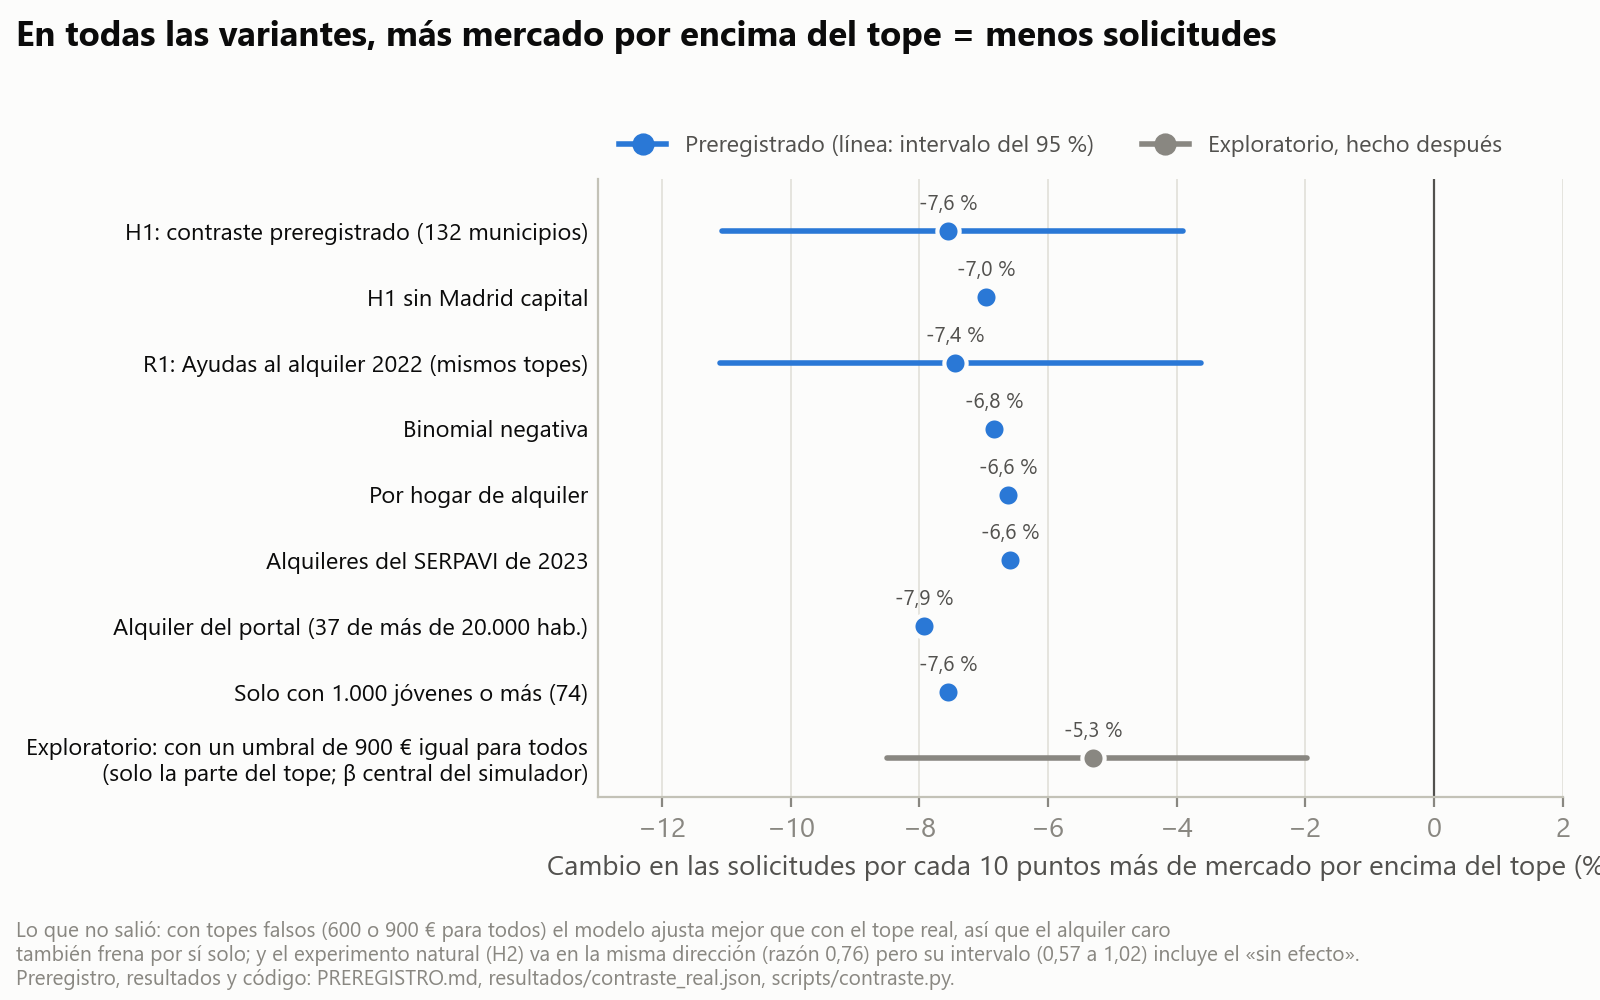
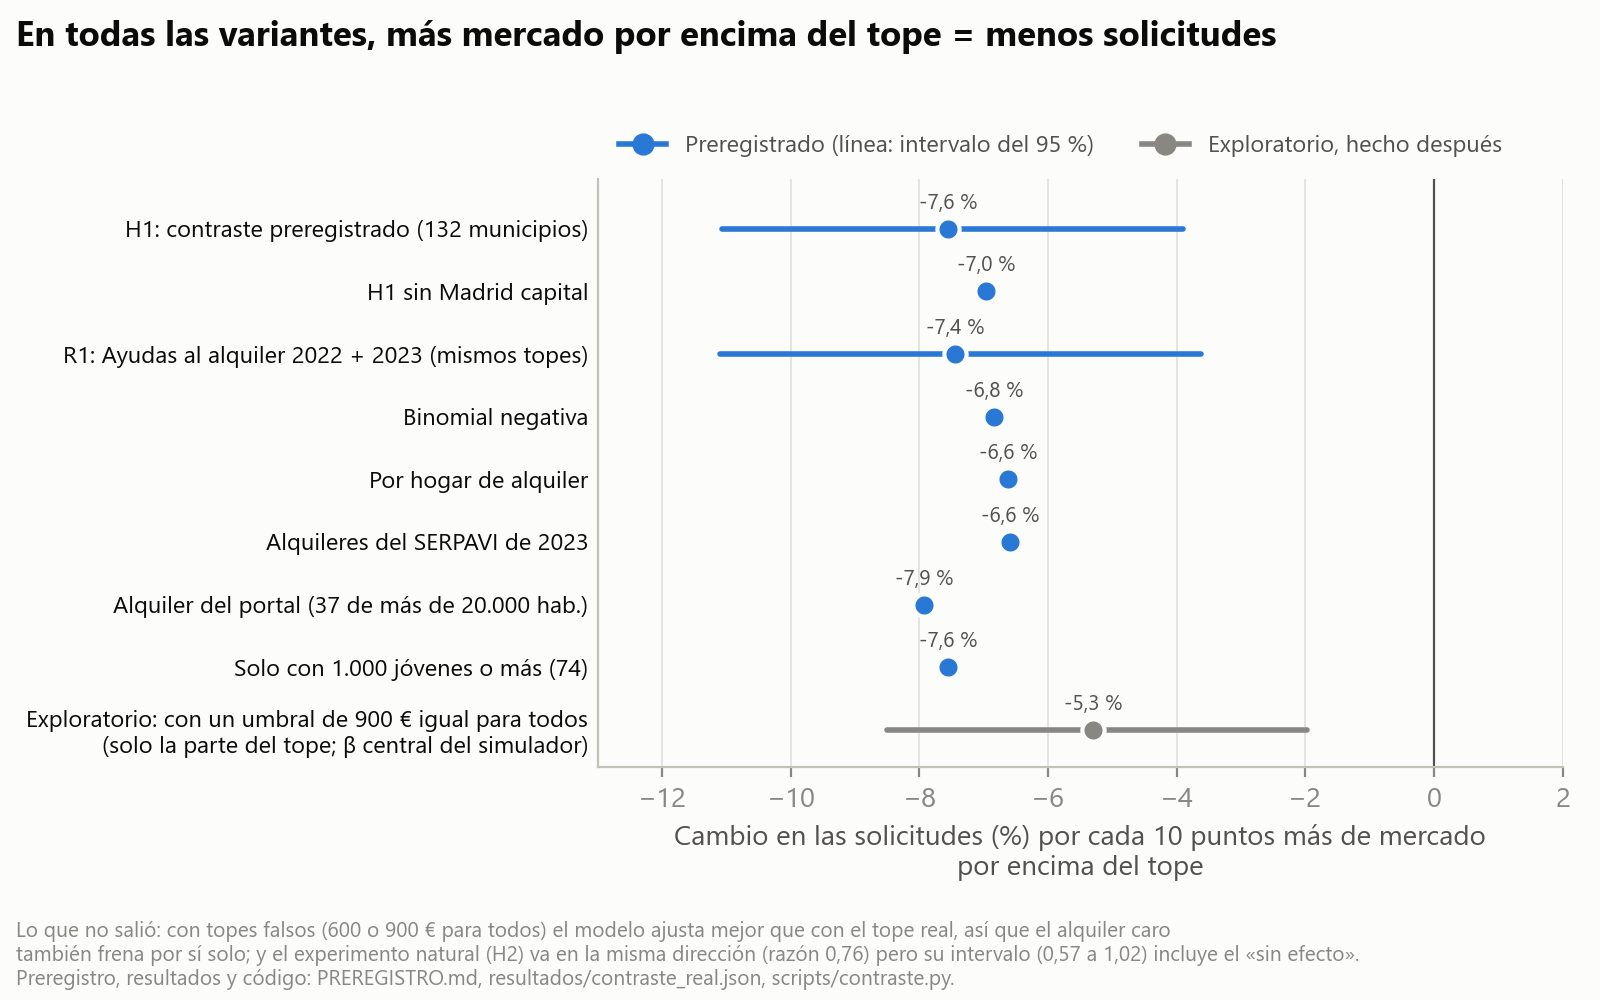
Validacion fuera de muestra del modelo de solicitudes y etiqueta R1 (2022 + 2023) de la figura
- scripts/validacion_fuera_muestra.py (exploratorio, lo esperado escrito antes): dejando fuera un municipio cada vez,
  la parte por encima del tope baja el error tipico del 21 % al 18 %; con 10 grupos x 20, gana en todas las repeticiones
- El modelo del simulador (tope y 900 EUR juntos), entrenado con el Bono 2022, predice las Ayudas para jovenes de 2023
  con un 27 % menos de desviacion que sin esas partes (Spearman de 0,32 a 0,46)
- El umbral de 900 EUR igual para todos tambien predice bien: se dice, como ya se decia
- Figura de todas las pruebas: R1 son las Ayudas de 2022 + 2023 y el eje ya no se corta

diff --git a/scripts/validacion_fuera_muestra.py b/scripts/validacion_fuera_muestra.py
@@ -1,0 +1,153 @@
+"""EXPLORATORY (not pre-registered; written 8-Nov-2026, after the real test): does the requests model predict
+municipalities it has not seen better when it knows the share of the rent above the cap?
+
+The pre-registered model (contraste.py): Poisson, Bono 2022 requests, offset log(young 20-34), controls log rent, log
+income, % renting households, youth unemployment and log population. The test measured the share's coefficient
+in-sample; this checks prediction instead, two ways:
+  A. Cross-validation on the Bono 2022 (132 municipalities): leave-one-out and 10-fold repeated 20 times. Each model is
+     fitted without the held-out municipalities and scored on them by Poisson deviance (lower is better), in total, without
+     Madrid city in the score (its 15,000 requests weigh most), and as the median absolute % error of the predicted
+     requests where there were 10 or more. Models: controls only; + share above the real cap; + share above a uniform
+     900 EUR (the fake cap that fitted better in-sample, exploratorio_topes_falsos.py); + both shares; and intercept only.
+     Paired: the difference with "controls only", municipality by municipality, with its standard error.
+  B. Another programme and year: the slopes fitted on the Bono 2022 predict the Ayudas al alquiler para jóvenes of 2023
+     (programme 5.1, same 29 municipalities with 900 EUR), with 2023 SERPAVI rents for the rent and the share, the other
+     controls of 2022 and the young people of 2022 as exposure. Only one number is fitted on the 2023 data, the
+     intercept (the programme's size), the same for every model; the slopes stay those of the Bono. Also the Spearman
+     correlation of predicted and observed requests per young person, which needs no intercept, and, for scale, the
+     model refitted on 2023 (in-sample, the best these variables can do).
+Written before running:
+  - A: + real cap scores better than controls only in held-out deviance, with Madrid and without it
+  - A: + uniform 900 EUR scores as well or better than + real cap, as in-sample (966 against 1,023); if so, it is said:
+    it is the limitation already known (expensive rent also deters on its own)
+  - A: both shares together do not beat the better single share by much out of sample (one more parameter)
+  - B: the Bono's slopes with the real cap predict the Ayudas 2023 better than the slopes without it, by less than in A
+    (another programme, with other conditions, and the 2023 SERPAVI change matched the portal's rents poorly)
+Usage:  python -P scripts/validacion_fuera_muestra.py   -> resultados/validacion_fuera_muestra.json"""
+import json
+import pathlib
+import sys
+
+import numpy as np
+import pandas as pd
+import statsmodels.api as sm
+from scipy.stats import spearmanr
+
+sys.path.insert(0, str(pathlib.Path(__file__).resolve().parent))  # python -P drops the script folder
+from comun import RAW, ROOT, leer_csv  # noqa: E402
+from contraste import CONTROLS, MADRID, load  # noqa: E402
+
+MODELS = {"solo_constante": None, "controles": [], "controles_tope_real": ["share_above_cap"],
+          "controles_900_igual": ["share_above_900"], "controles_ambas": ["share_above_cap", "share_above_900"]}
+BASE = "controles"
+
+
+def design(m, shares, year):
+    """Covariates of one year: the share columns and log rent of that year's SERPAVI, the other controls of 2022."""
+    X = m[CONTROLS].assign(log_rent=np.log(m[f"serpavi_med_{year}"]))
+    X = X.assign(**{s: m[f"{s}_{year}"] for s in shares})
+    return sm.add_constant(X, has_constant="add")
+
+
+def design_for(name, m, year):
+    shares = MODELS[name]
+    return sm.add_constant(pd.DataFrame(index=m.index), has_constant="add") if shares is None else design(m, shares, year)
+
+
+def unit_deviance(y, mu):
+    with np.errstate(divide="ignore", invalid="ignore"):
+        t = np.where(y > 0, y * np.log(y / mu), 0.0)
+    return 2 * (t - (y - mu))
+
+
+def scores(y, mu, madrid):
+    d = unit_deviance(y, mu)
+    big = y >= 10
+    return {"deviance": float(d.sum()), "deviance_without_madrid": float(d[~madrid].sum()),
+            "median_abs_pct_error_10_or_more": float(np.median(np.abs(mu[big] / y[big] - 1)) * 100)}
+
+
+def gain(diff, madrid):
+    """diff: deviance of "controls only" minus the model's, per municipality (> 0: the model predicts it better)."""
+    return {"deviance": float(diff.sum()), "se": float(np.sqrt(len(diff)) * diff.std(ddof=1)),
+            "deviance_without_madrid": float(diff[~madrid].sum()),
+            "se_without_madrid": float(np.sqrt((~madrid).sum()) * diff[~madrid].std(ddof=1)),
+            "municipalities_better": int((diff > 0).sum()), "of": len(diff)}
+
+
+def cross_validate(m, folds):
+    """Held-out predictions of every model: one array per model, each municipality predicted by a fit without it."""
+    y, off = m["bono_solicitudes"].to_numpy(float), np.log(m["jovenes_20_34_2022"].to_numpy(float))
+    pred = {k: np.zeros(len(m)) for k in MODELS}
+    for test in folds:
+        train = np.setdiff1d(np.arange(len(m)), test)
+        for k in MODELS:
+            X = design_for(k, m, 2022).to_numpy(float)
+            r = sm.GLM(y[train], X[train], family=sm.families.Poisson(), offset=off[train]).fit()
+            pred[k][test] = np.exp(X[test] @ r.params + off[test])
+    return pred
+
+
+def part_a(m, seed=3, repeats=20, k=10):
+    y, madrid = m["bono_solicitudes"].to_numpy(float), (m["ine"] == MADRID).to_numpy()
+    loo = cross_validate(m, [np.array([i]) for i in range(len(m))])
+    out = {"leave_one_out": {name: scores(y, mu, madrid) for name, mu in loo.items()}}
+    base = unit_deviance(y, loo[BASE])
+    for name in MODELS:
+        if name not in (BASE, "solo_constante"):
+            out["leave_one_out"][name]["gain_vs_controls"] = gain(base - unit_deviance(y, loo[name]), madrid)
+    rng = np.random.default_rng(seed)
+    rep = {name: [] for name in MODELS}
+    for _ in range(repeats):
+        folds = np.array_split(rng.permutation(len(m)), k)
+        for name, mu in cross_validate(m, folds).items():
+            rep[name].append(scores(y, mu, madrid))
+    out[f"{k}_fold_x{repeats}"] = {name: {s: float(np.mean([r[s] for r in rs])) for s in rs[0]} for name, rs in rep.items()}
+    wins = [np.mean([a["deviance"] < b["deviance"] for a, b in zip(rep[name], rep[BASE])]) for name in MODELS]
+    out[f"{k}_fold_x{repeats}_share_of_repeats_better_than_controls"] = dict(zip(MODELS, map(float, wins)))
+    return out
+
+
+def ayudas_2023(m):
+    ay = leer_csv(next((RAW / "spacm_ayudas_alquiler_vivienda_jovenes_sectores_escasos_recursos").glob("*.csv")))
+    ay = ay[(ay["programa"] == 5.1) & (ay["año_convocatoria"] == 2023)].groupby("municipio")["solicitudes"].sum()
+    return m["ine"].map(ay).fillna(0).to_numpy(float)
+
+
+def part_b(m):
+    t = m.dropna(subset=["serpavi_med_2023", "share_above_cap_2023", "share_above_900_2023"]).reset_index(drop=True)
+    y_bono, off = t["bono_solicitudes"].to_numpy(float), np.log(t["jovenes_20_34_2022"].to_numpy(float))
+    y = ayudas_2023(t)
+    madrid = (t["ine"] == MADRID).to_numpy()
+    out, mus = {"n_municipalities": len(t), "requests_2023": int(y.sum())}, {}
+    for name in MODELS:
+        X22, X23 = design_for(name, t, 2022).to_numpy(float), design_for(name, t, 2023).to_numpy(float)
+        slopes = sm.GLM(y_bono, X22, family=sm.families.Poisson(), offset=off).fit().params
+        eta = X23[:, 1:] @ slopes[1:] + off  # the Bono's slopes; the intercept is the only thing fitted on 2023
+        a = sm.GLM(y, np.ones((len(t), 1)), family=sm.families.Poisson(), offset=eta).fit().params[0]
+        mus[name] = np.exp(a + eta)
+        refit = sm.GLM(y, X23, family=sm.families.Poisson(), offset=off).fit()
+        rate_pred, rate_obs = np.exp(eta - off), y / np.exp(off)
+        out[name] = {**scores(y, mus[name], madrid),
+                     "spearman_rate": None if name == "solo_constante" else float(spearmanr(rate_pred, rate_obs)[0]),
+                     "refit_in_sample_deviance": float(refit.deviance)}
+    base = unit_deviance(y, mus[BASE])
+    for name in MODELS:
+        if name not in (BASE, "solo_constante"):
+            out[name]["gain_vs_controls"] = gain(base - unit_deviance(y, mus[name]), madrid)
+    return out
+
+
+def main():
+    m = load()
+    a = part_a(m)
+    b = part_b(m)
+    out = {"note": "EXPLORATORIO: no preregistrado, hecho tras el contraste real; lo esperado está en el docstring",
+           "n_municipalities": len(m), "A_bono_2022_cross_validation": a, "B_bono_2022_to_ayudas_jovenes_2023": b}
+    text = json.dumps(out, indent=1, ensure_ascii=False)
+    (ROOT / "resultados" / "validacion_fuera_muestra.json").write_text(text, encoding="utf-8")
+    print(text)
+
+
+if __name__ == "__main__":
+    main()

diff --git a/app/app_pages/metodo.py b/app/app_pages/metodo.py
@@ -9,6 +9,8 @@ fake = result("exploratorio_topes_falsos")
 cap_only = fake["real_cap_and_uniform_900"]["real_cap"]
 income = result("requisito_ingresos")["h1_with_income_rule_control"]["h1_plus_elig"]
 rooms = result("habitaciones")["h1_with_room_contracts"]
+oos = result("validacion_fuera_muestra")
+cv, ay = oos["A_bono_2022_cross_validation"]["leave_one_out"], oos["B_bono_2022_to_ayudas_jovenes_2023"]
 
 st.title("Método y datos")
 st.subheader("Lo que probamos, con la regla escrita antes de mirar")
@@ -22,7 +24,15 @@ st.markdown(
     f"- **Después, como exploratorio:** con el límite de ingresos (3 × IPREM) como control, el efecto queda en un "
     f"{es(-income['pct_per_10_points'], 1)} % menos. Contando los contratos de habitación de tres jóvenes que comparten "
     f"piso, el efecto sigue siendo negativo y el modelo ajusta mejor (desviación {es(rooms['mix_flat_and_3_sharers_rooms']['1.0']['deviance'])}, "
-    f"frente a {es(rooms['real_cap']['deviance'])} con el tope del piso): es una pista, no una prueba."
+    f"frente a {es(rooms['real_cap']['deviance'])} con el tope del piso): es una pista, no una prueba.\n"
+    f"- **Con municipios que el modelo no ha visto** (exploratorio): saber qué parte del alquiler pasa del tope baja el "
+    f"error típico de las solicitudes del {es(cv['controles']['median_abs_pct_error_10_or_more'])} % al "
+    f"{es(cv['controles_tope_real']['median_abs_pct_error_10_or_more'])} % (dejando fuera un municipio cada vez). Y el "
+    f"modelo del simulador, con el tope y los 900 € juntos, entrenado con el Bono 2022 predice las Ayudas para jóvenes de "
+    f"2023, otro programa y otro año, con un {es(100 * (1 - ay['controles_ambas']['deviance'] / ay['controles']['deviance']))} % "
+    f"menos de desviación que sin esas dos partes (correlación de {es(ay['controles']['spearman_rate'], 2)} a "
+    f"{es(ay['controles_ambas']['spearman_rate'], 2)}). El umbral de 900 € igual para todos también predice bien: el "
+    f"alquiler caro frena por sí solo."
 )
 st.image(str(RES / "figuras" / "contraste_todas_las_pruebas.png"),
          alt="Todas las estimaciones del efecto del tope, también las que no salieron, con sus intervalos")

diff --git a/scripts/graficos.py b/scripts/graficos.py
@@ -157,7 +157,7 @@ def tests_chart(test, explo):
     rob = test["robustness_beta"]
     rows = [("H1: contraste preregistrado (132 municipios)", test["H1"]["beta"], test["H1"]["ci95"], "pre"),
             ("H1 sin Madrid capital", test["H1"]["beta_without_madrid"], None, "pre"),
-            ("R1: Ayudas al alquiler 2022 (mismos topes)", test["R1_ayudas51"]["beta"], test["R1_ayudas51"]["ci95"], "pre"),
+            ("R1: Ayudas al alquiler 2022 + 2023 (mismos topes)", test["R1_ayudas51"]["beta"], test["R1_ayudas51"]["ci95"], "pre"),
             ("Binomial negativa", rob["negative_binomial"], None, "pre"),
             ("Por hogar de alquiler", rob["per_rented_household"], None, "pre"),
             ("Alquileres del SERPAVI de 2023", rob["serpavi_2023"], None, "pre"),
@@ -183,7 +183,7 @@ def tests_chart(test, explo):
     ax.xaxis.grid(True, color=GRID, linewidth=0.6)
     ax.set_axisbelow(True)
     ax.tick_params(axis="y", length=0)
-    ax.set_xlabel("Cambio en las solicitudes por cada 10 puntos más de mercado por encima del tope (%)")
+    ax.set_xlabel("Cambio en las solicitudes (%) por cada 10 puntos más de mercado\npor encima del tope")
     dot = lambda c: Line2D([], [], marker="o", color=c, markersize=7, linewidth=2)  # noqa: E731
     ax.legend([dot(SLOT1), dot(MUTED)], ["Preregistrado (línea: intervalo del 95 %)", "Exploratorio, hecho después"],
               loc="lower left", bbox_to_anchor=(0, 1.0), ncol=2, frameon=False, fontsize=8.5, labelcolor=INK2)
